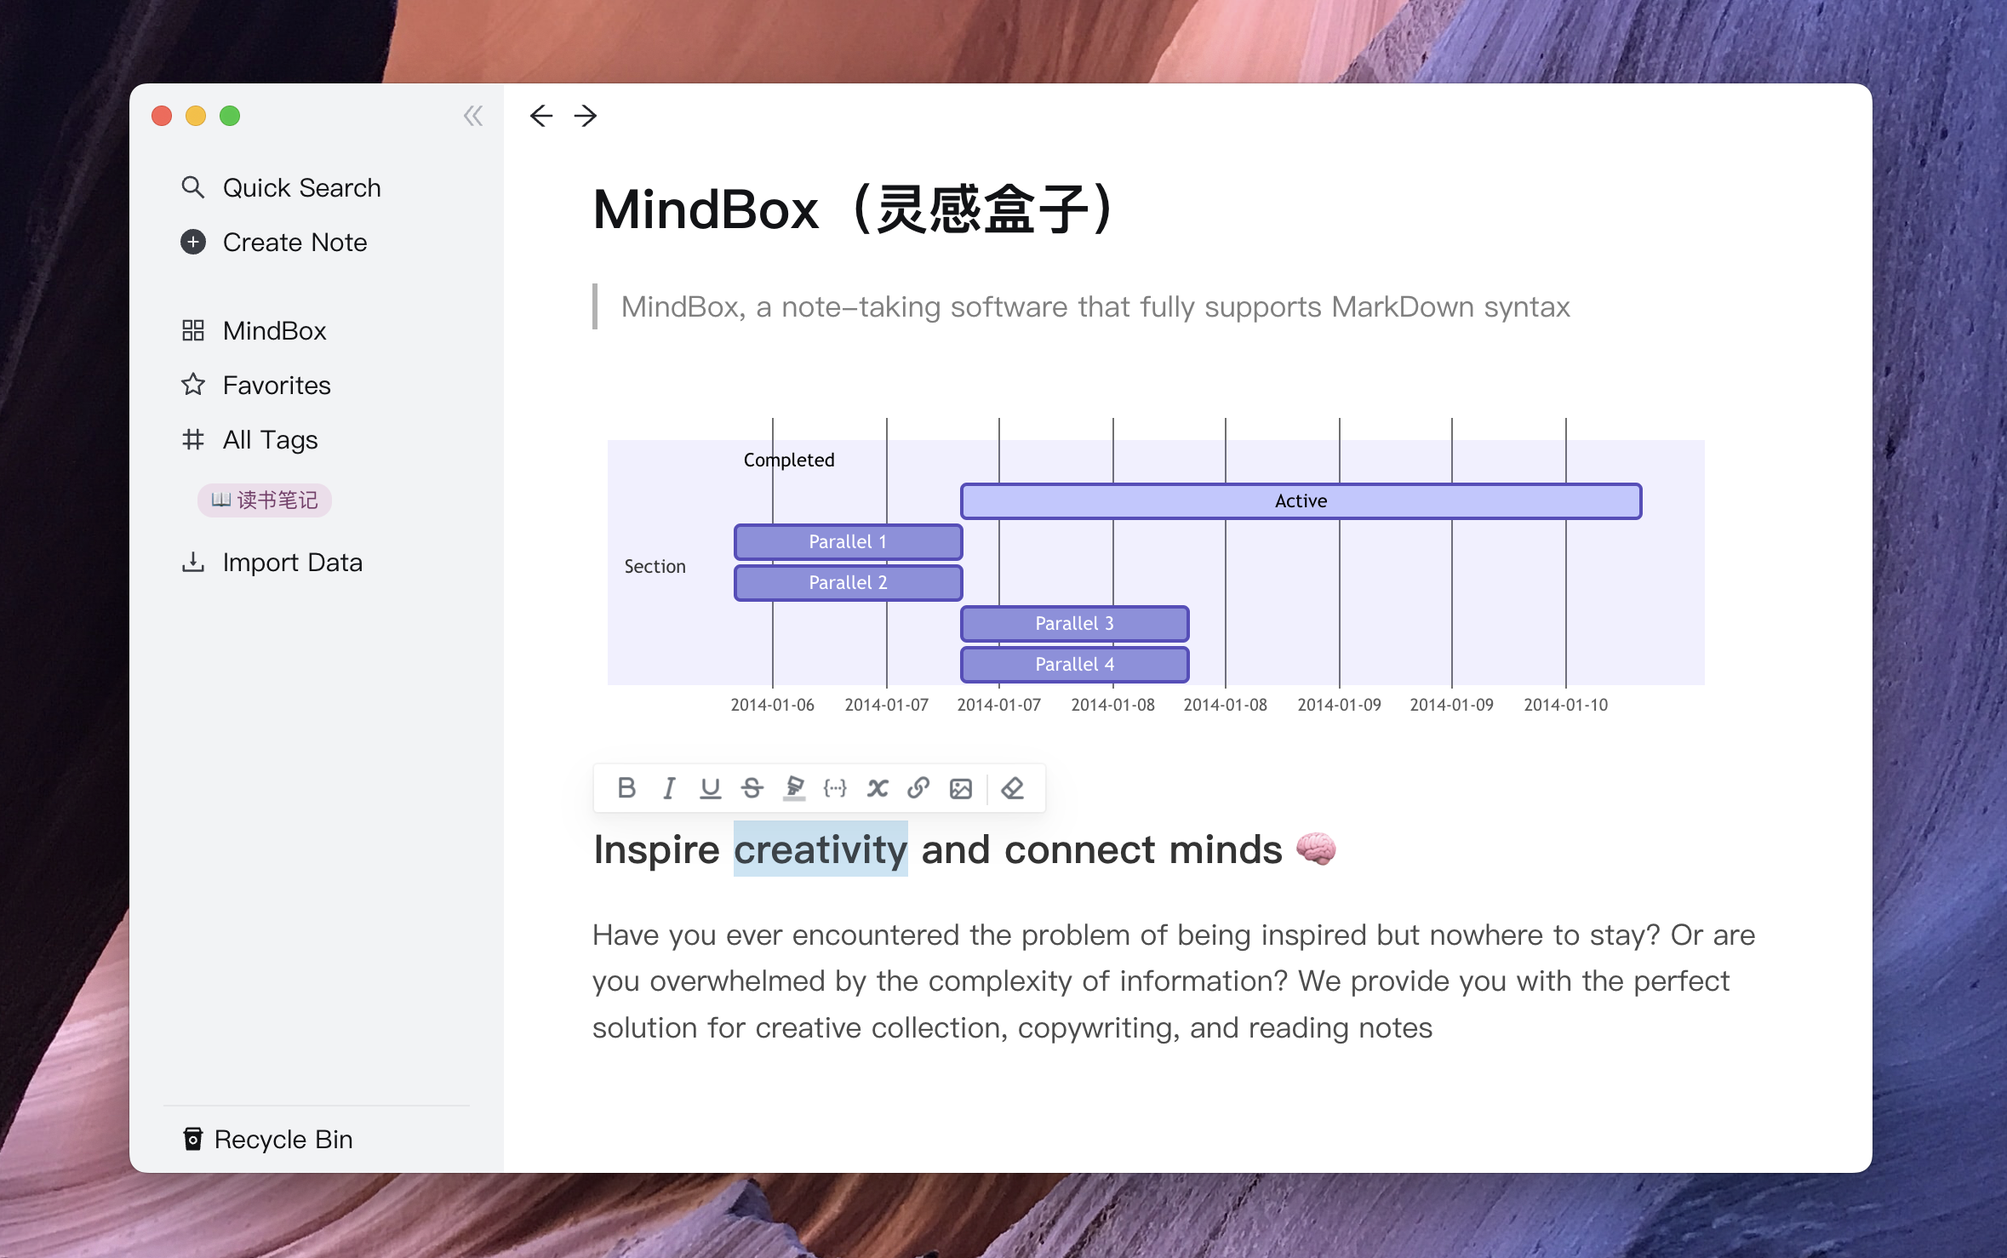
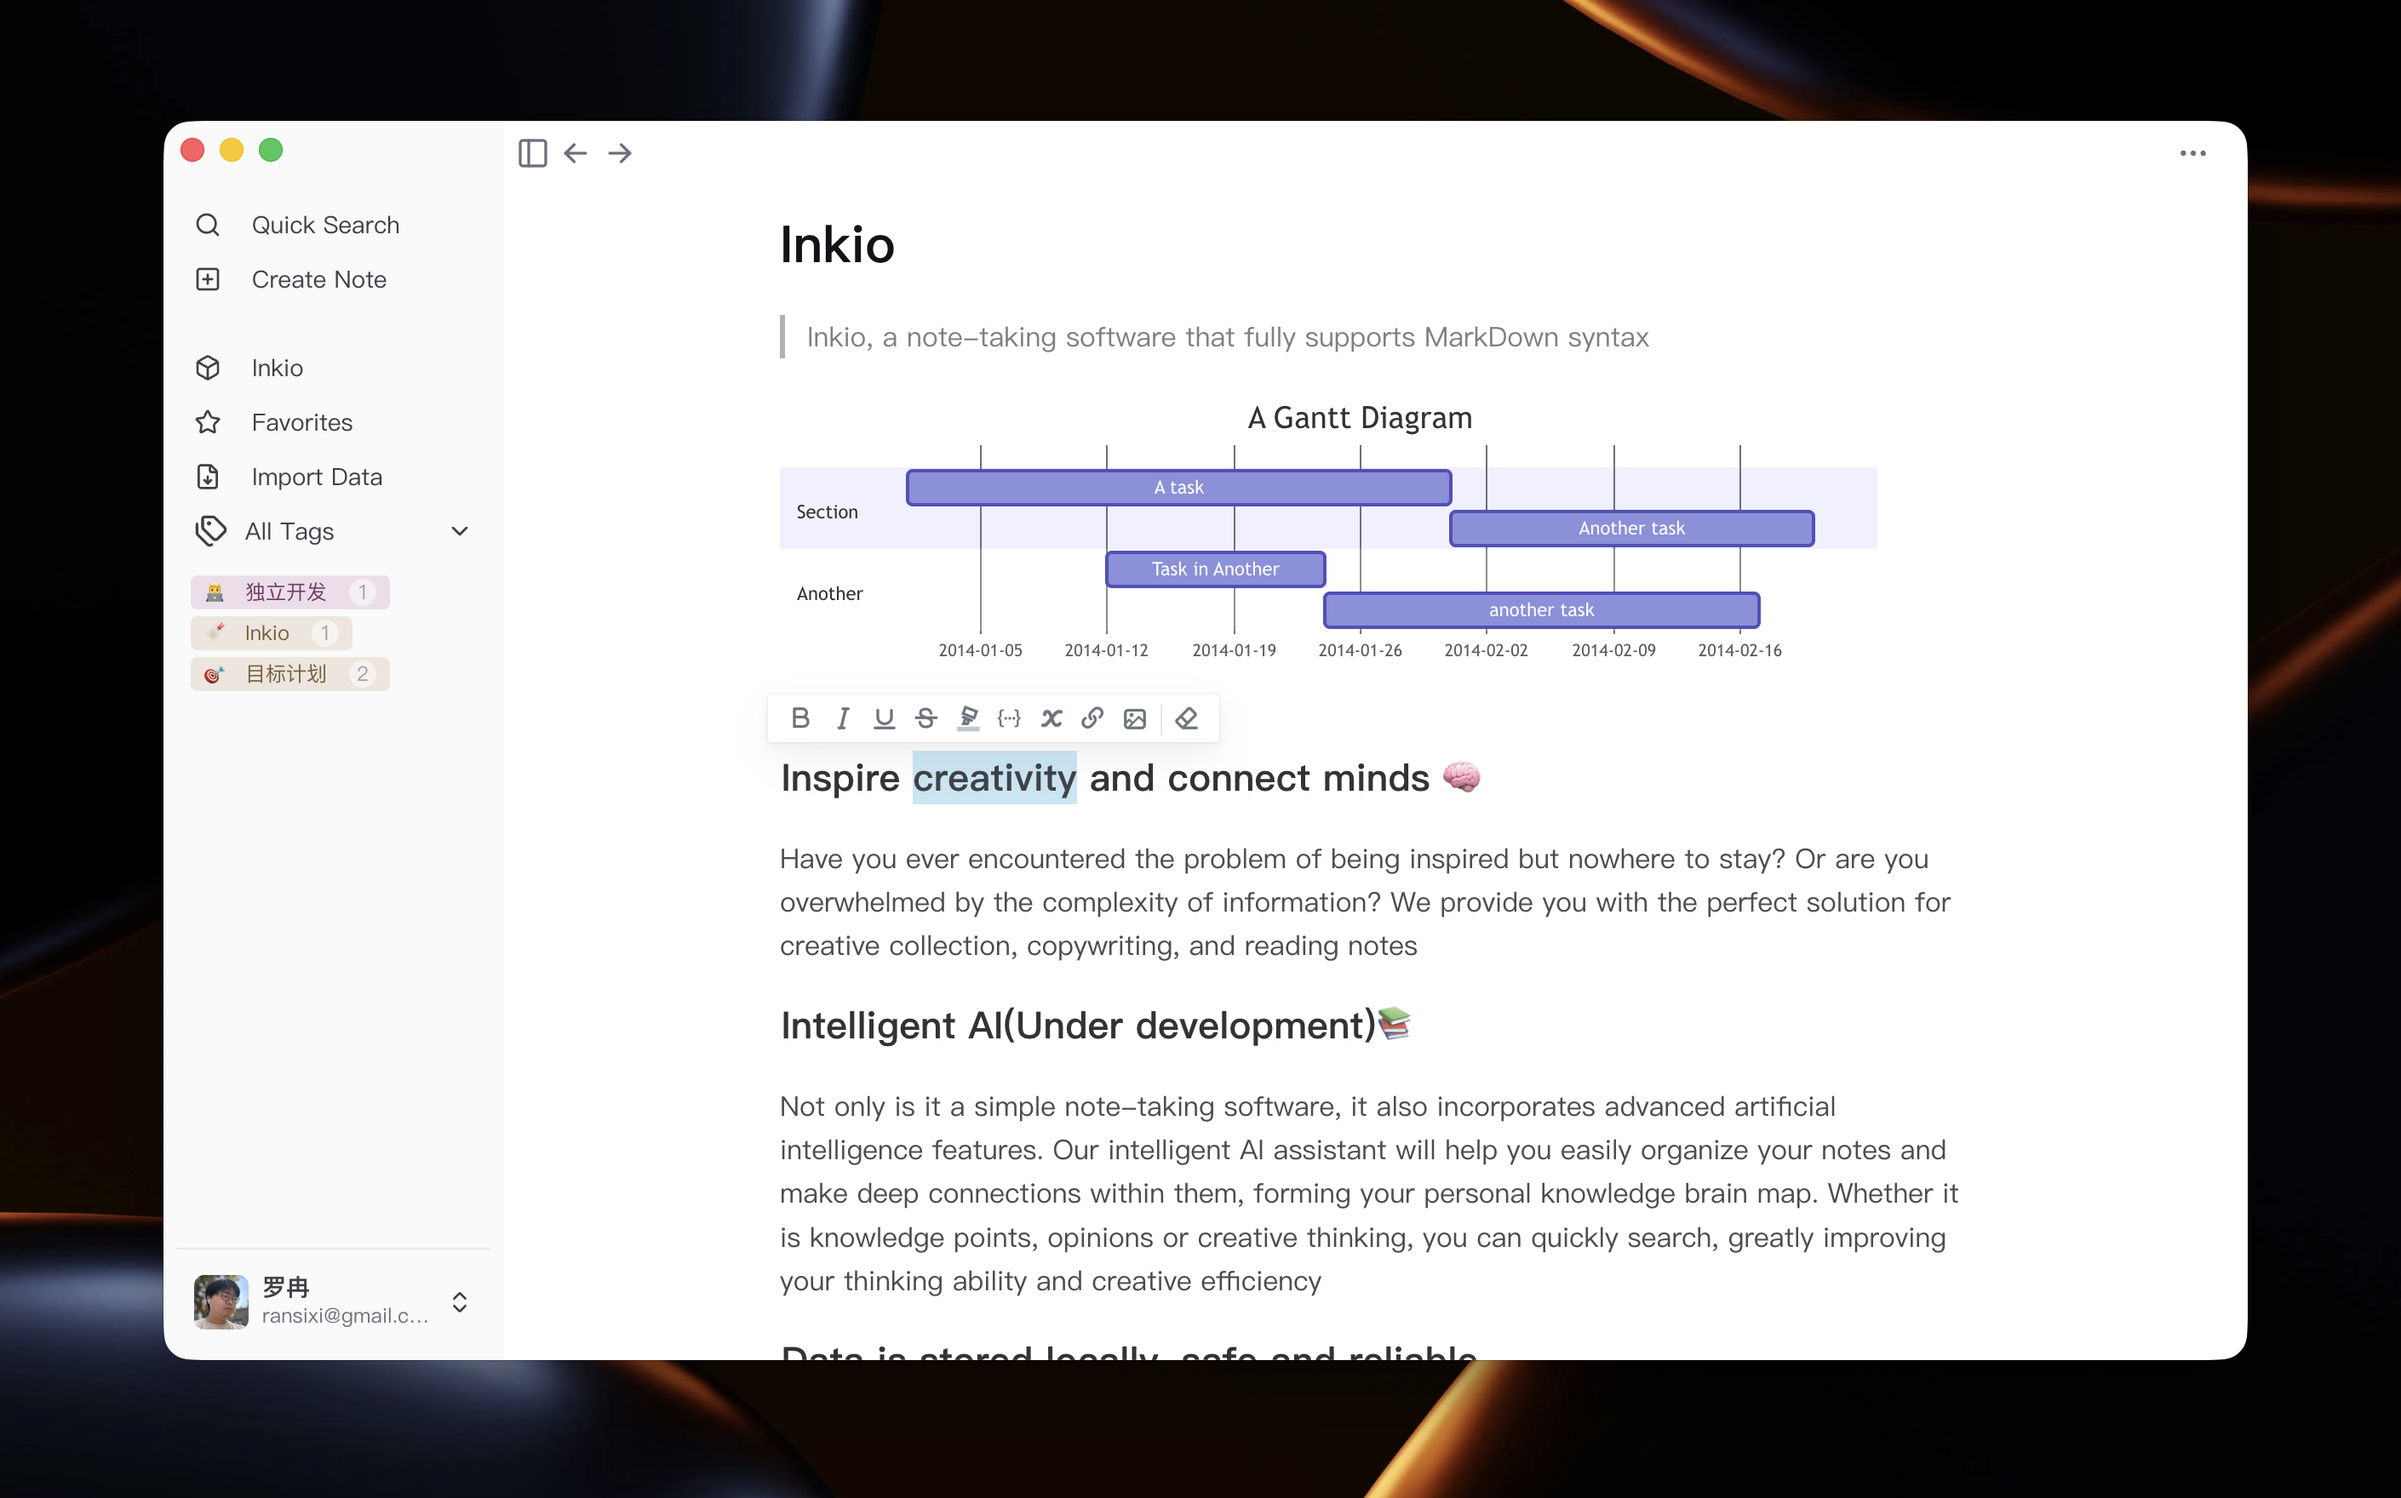
feat: rename MindBox to Inkio and update screenshot

diff --git a/README.md b/README.md
@@ -1,5 +1,5 @@
-# MindBox(灵感盒子)
+# Inkio
 
-> MindBox, a note-taking software that fully supports MarkDown syntax, visit our [website](https://www.mindbox.cc) for more information.
+> Inkio, a note-taking software that fully supports MarkDown syntax, visit our [website](https://www.inkio.me) for more information.
 
 ![](https://github.com/mind-box/.github/blob/main/profile/Screenshot.png)
